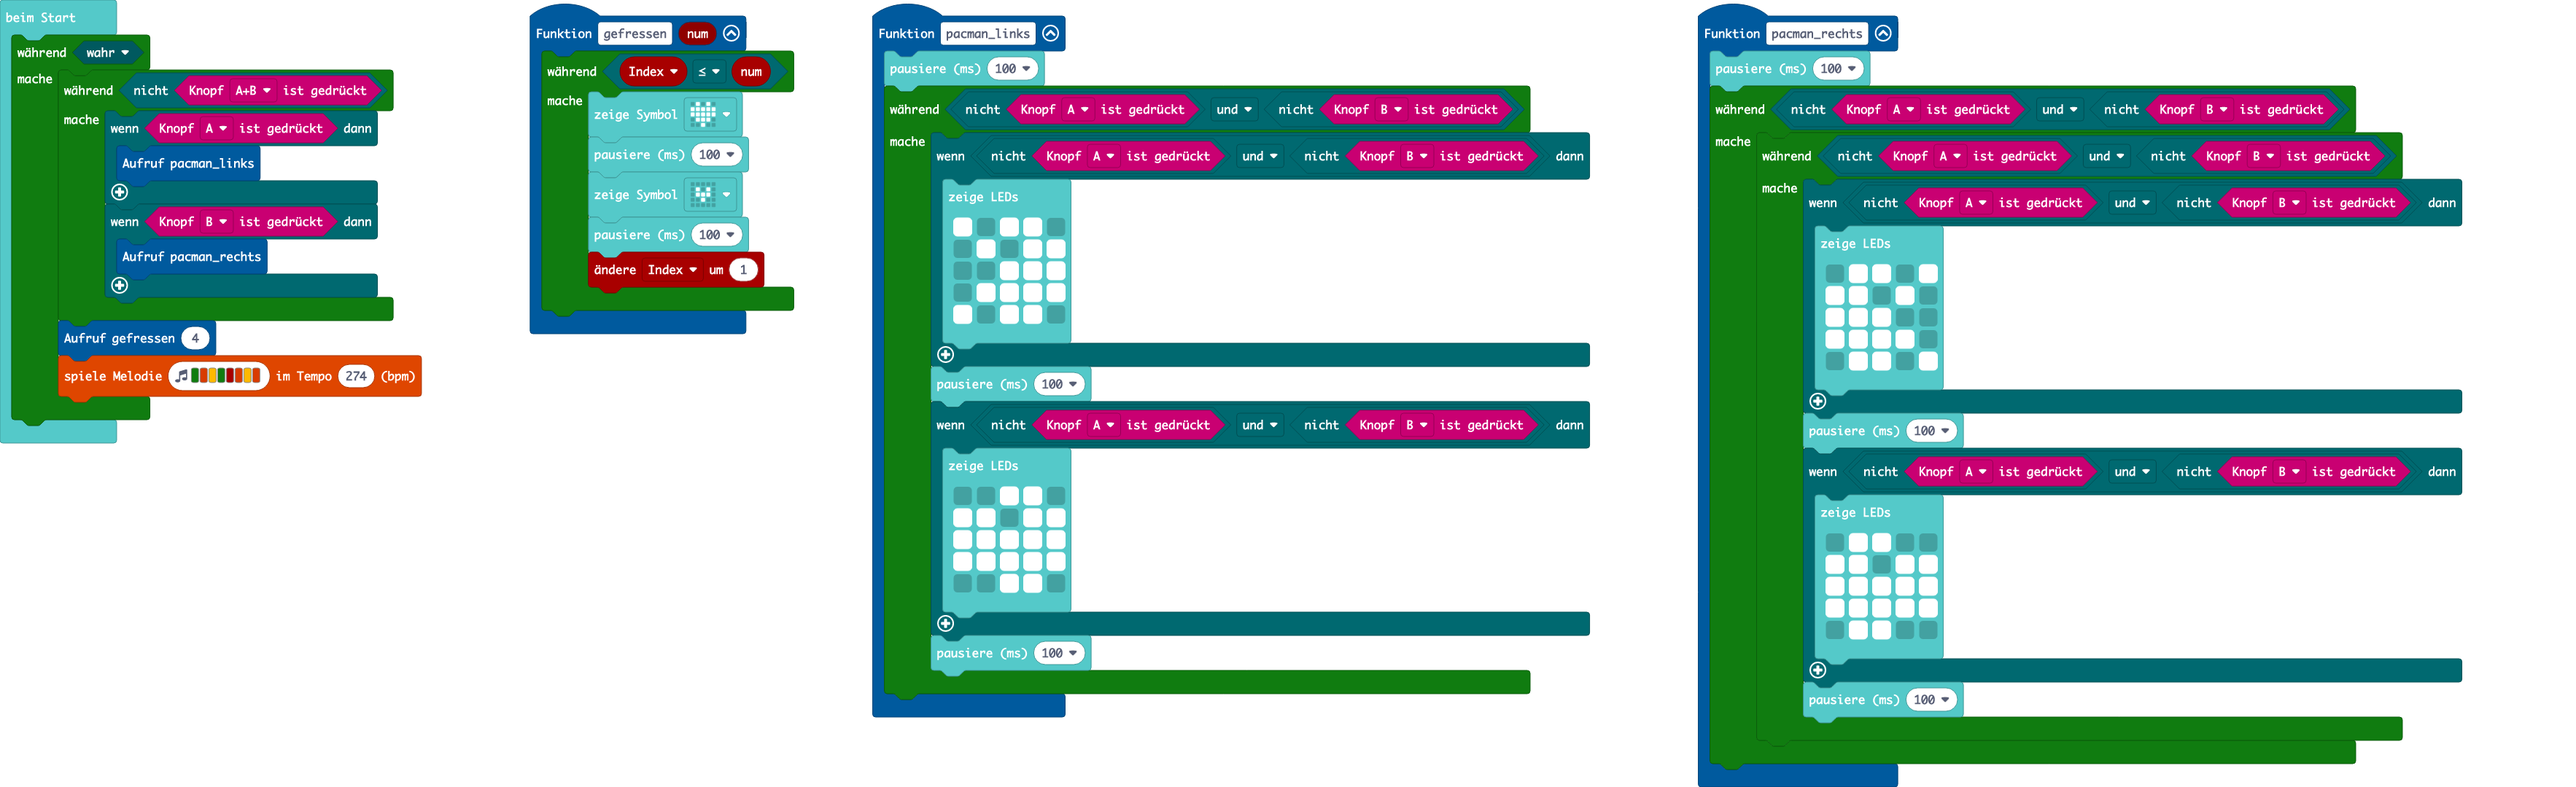
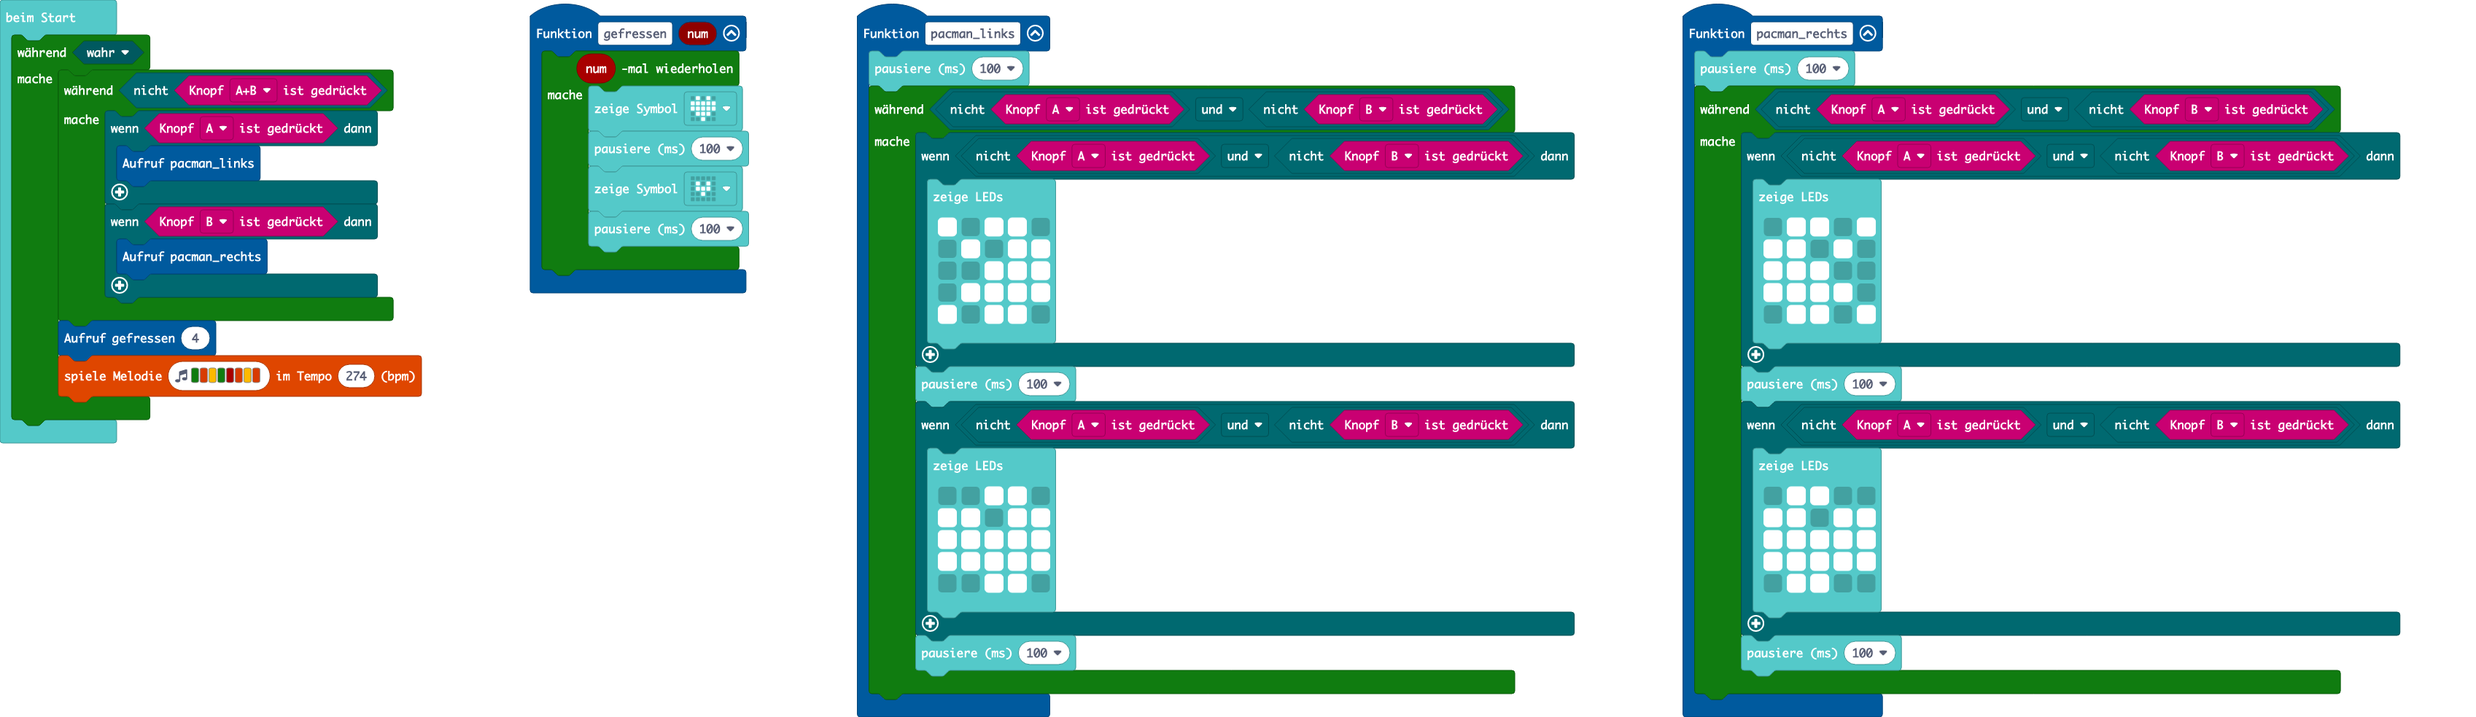
Aktualisiere main.blocks, main.ts, main.py

diff --git a/main.ts b/main.ts
@@ -26,40 +26,36 @@ function pacman_links () {
 function pacman_rechts () {
     basic.pause(100)
     while (!(input.buttonIsPressed(Button.A)) && !(input.buttonIsPressed(Button.B))) {
-        while (!(input.buttonIsPressed(Button.A)) && !(input.buttonIsPressed(Button.B))) {
-            if (!(input.buttonIsPressed(Button.A)) && !(input.buttonIsPressed(Button.B))) {
-                basic.showLeds(`
-                    . # # . #
-                    # # . # .
-                    # # # . .
-                    # # # # .
-                    . # # . #
-                    `)
-            }
-            basic.pause(100)
-            if (!(input.buttonIsPressed(Button.A)) && !(input.buttonIsPressed(Button.B))) {
-                basic.showLeds(`
-                    . # # . .
-                    # # . # #
-                    # # # # #
-                    # # # # #
-                    . # # . .
-                    `)
-            }
-            basic.pause(100)
+        if (!(input.buttonIsPressed(Button.A)) && !(input.buttonIsPressed(Button.B))) {
+            basic.showLeds(`
+                . # # . #
+                # # . # .
+                # # # . .
+                # # # # .
+                . # # . #
+                `)
         }
+        basic.pause(100)
+        if (!(input.buttonIsPressed(Button.A)) && !(input.buttonIsPressed(Button.B))) {
+            basic.showLeds(`
+                . # # . .
+                # # . # #
+                # # # # #
+                # # # # #
+                . # # . .
+                `)
+        }
+        basic.pause(100)
     }
 }
 function gefressen (num: number) {
-    while (Index <= num) {
+    for (let index = 0; index < num; index++) {
         basic.showIcon(IconNames.Heart)
         basic.pause(100)
         basic.showIcon(IconNames.SmallHeart)
         basic.pause(100)
-        Index += 1
     }
 }
-let Index = 0
 while (true) {
     while (!(input.buttonIsPressed(Button.AB))) {
         if (input.buttonIsPressed(Button.A)) {

diff --git a/main.py b/main.py
@@ -22,33 +22,30 @@ def pacman_links():
 def pacman_rechts():
     basic.pause(100)
     while not (input.button_is_pressed(Button.A)) and not (input.button_is_pressed(Button.B)):
-        while not (input.button_is_pressed(Button.A)) and not (input.button_is_pressed(Button.B)):
-            if not (input.button_is_pressed(Button.A)) and not (input.button_is_pressed(Button.B)):
-                basic.show_leds("""
-                    . # # . #
-                    # # . # .
-                    # # # . .
-                    # # # # .
-                    . # # . #
-                    """)
-            basic.pause(100)
-            if not (input.button_is_pressed(Button.A)) and not (input.button_is_pressed(Button.B)):
-                basic.show_leds("""
-                    . # # . .
-                    # # . # #
-                    # # # # #
-                    # # # # #
-                    . # # . .
-                    """)
-            basic.pause(100)
+        if not (input.button_is_pressed(Button.A)) and not (input.button_is_pressed(Button.B)):
+            basic.show_leds("""
+                . # # . #
+                # # . # .
+                # # # . .
+                # # # # .
+                . # # . #
+                """)
+        basic.pause(100)
+        if not (input.button_is_pressed(Button.A)) and not (input.button_is_pressed(Button.B)):
+            basic.show_leds("""
+                . # # . .
+                # # . # #
+                # # # # #
+                # # # # #
+                . # # . .
+                """)
+        basic.pause(100)
 def gefressen(num: number):
-    Index = 0
-    while Index <= num:
+    for i in range(num):
         basic.show_icon(IconNames.HEART)
         basic.pause(100)
         basic.show_icon(IconNames.SMALL_HEART)
         basic.pause(100)
-        Index += 1
 while True:
     while not (input.button_is_pressed(Button.AB)):
         if input.button_is_pressed(Button.A):
